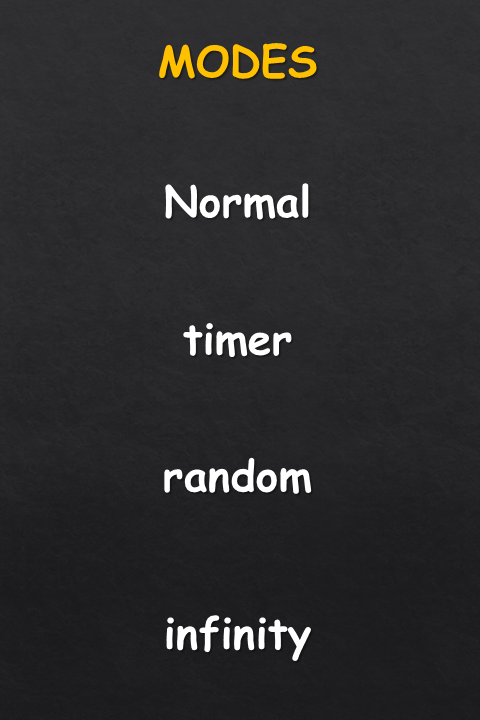
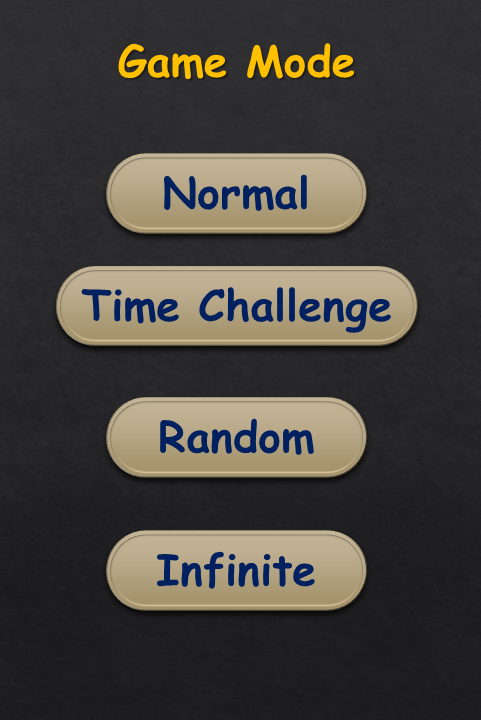
some GUI

diff --git a/core/front-end.h b/core/front-end.h
@@ -61,18 +61,13 @@ void Modes(SDL_Renderer* renderer){
         e ->type = 0 ;
         modes = false;
     }
-    if((mouse_x>160)&&(mouse_x<315)&&(mouse_y>180)&&(mouse_y<223) && (e->button.button == SDL_BUTTON_LEFT && e->type == SDL_MOUSEBUTTONDOWN)){
+    if((mouse_x>100)&&(mouse_x<370)&&(mouse_y>150)&&(mouse_y<240) && (e->button.button == SDL_BUTTON_LEFT && e->type == SDL_MOUSEBUTTONDOWN)){
+        e ->type = 0 ;
         PlayMusic(btn_sd,25,0,btn_sd_c);
         levels=true;
         modes=false;
     }
-    if((mouse_x>160)&&(mouse_x<315)&&(mouse_y>460)&&(mouse_y<500) && (e->button.button == SDL_BUTTON_LEFT && e->type == SDL_MOUSEBUTTONDOWN)){
-        PlayMusic(btn_sd,25,0,btn_sd_c);
-        modes=false;
-        generateRandomGame(10);
-        show_level_random=true;
-    }
-    if((mouse_x>160)&&(mouse_x<300)&&(mouse_y>320)&&(mouse_y<365) && (e->button.button == SDL_BUTTON_LEFT && e->type == SDL_MOUSEBUTTONDOWN)){
+    if((mouse_x>50)&&(mouse_x<420)&&(mouse_y>268)&&(mouse_y<350) && (e->button.button == SDL_BUTTON_LEFT && e->type == SDL_MOUSEBUTTONDOWN)){
         PlayMusic(btn_sd,25,0,btn_sd_c);
         modes=false;
         generateRandomGame(10);
@@ -80,6 +75,12 @@ void Modes(SDL_Renderer* renderer){
         timer_level=true;
         is_timer_on=true;
         start_time = time();
+    }
+    if((mouse_x>100)&&(mouse_x<370)&&(mouse_y>400)&&(mouse_y<480) && (e->button.button == SDL_BUTTON_LEFT && e->type == SDL_MOUSEBUTTONDOWN)){
+        PlayMusic(btn_sd,25,0,btn_sd_c);
+        modes=false;
+        generateRandomGame(10);
+        show_level_random=true;
     }
 }
 
@@ -97,7 +98,8 @@ void Levels(SDL_Renderer* renderer){
         e ->type = 0 ;
         levels = false;
     }
-    if((mouse_x>24)&&(mouse_x<205)&&(mouse_y>252)&&(mouse_y<297) && (e->button.button == SDL_BUTTON_LEFT && e->type == SDL_MOUSEBUTTONDOWN)){
+    if((mouse_x>110)&&(mouse_x<380)&&(mouse_y>130)&&(mouse_y<220) && (e->button.button == SDL_BUTTON_LEFT && e->type == SDL_MOUSEBUTTONDOWN)){
+        e ->type = 0 ;
         PlayMusic(btn_sd,25,0,btn_sd_c);
         data = {};
         loadLevel(1);
@@ -107,7 +109,7 @@ void Levels(SDL_Renderer* renderer){
         SDL_RenderClear(renderer);
         show_level_1=true;
     }
-    if((mouse_x>265)&&(mouse_x<460)&&(mouse_y>252)&&(mouse_y<297) && (e->button.button == SDL_BUTTON_LEFT && e->type == SDL_MOUSEBUTTONDOWN)){
+    if((mouse_x>110)&&(mouse_x<380)&&(mouse_y>250)&&(mouse_y<335) && (e->button.button == SDL_BUTTON_LEFT && e->type == SDL_MOUSEBUTTONDOWN)){
         PlayMusic(btn_sd,25,0,btn_sd_c);
         data = {};
         loadLevel(2);
@@ -117,7 +119,7 @@ void Levels(SDL_Renderer* renderer){
         SDL_RenderClear(renderer);
         show_level_2=true;
     }
-    if((mouse_x>25)&&(mouse_x<200)&&(mouse_y>390)&&(mouse_y<435) && (e->button.button == SDL_BUTTON_LEFT && e->type == SDL_MOUSEBUTTONDOWN)){
+    if((mouse_x>110)&&(mouse_x<380)&&(mouse_y>360)&&(mouse_y<450) && (e->button.button == SDL_BUTTON_LEFT && e->type == SDL_MOUSEBUTTONDOWN)){
         PlayMusic(btn_sd,25,0,btn_sd_c);
         data = {};
         loadLevel(3);
@@ -127,7 +129,7 @@ void Levels(SDL_Renderer* renderer){
         SDL_RenderClear(renderer);
         show_level_3=true;
     }
-    if((mouse_x>265)&&(mouse_x<465)&&(mouse_y>390)&&(mouse_y<435) && (e->button.button == SDL_BUTTON_LEFT && e->type == SDL_MOUSEBUTTONDOWN)){
+    if((mouse_x>110)&&(mouse_x<380)&&(mouse_y>485)&&(mouse_y<570) && (e->button.button == SDL_BUTTON_LEFT && e->type == SDL_MOUSEBUTTONDOWN)){
         PlayMusic(btn_sd,25,0,btn_sd_c);
         data = {};
         loadLevel(4);
@@ -137,7 +139,7 @@ void Levels(SDL_Renderer* renderer){
         SDL_RenderClear(renderer);
         show_level_4=true;
     }
-    if((mouse_x>180)&&(mouse_x<290)&&(mouse_y>520)&&(mouse_y<580) && (e->button.button == SDL_BUTTON_LEFT && e->type == SDL_MOUSEBUTTONDOWN)){
+    if((mouse_x>110)&&(mouse_x<380)&&(mouse_y>610)&&(mouse_y<700) && (e->button.button == SDL_BUTTON_LEFT && e->type == SDL_MOUSEBUTTONDOWN)){
         PlayMusic(btn_sd,25,0,btn_sd_c);
         data = {};
         loadLevel(5);
@@ -163,74 +165,74 @@ void Setting(SDL_Renderer* renderer){
         e ->type = 0 ;
         setting = false;
     }
-    if((mouse_x>214)&&(mouse_x<264)&&(mouse_y>157)&&(mouse_y<222) && (e->button.button == SDL_BUTTON_LEFT && e->type == SDL_MOUSEBUTTONDOWN)){
+    if((mouse_x>224)&&(mouse_x<274)&&(mouse_y>157)&&(mouse_y<222) && (e->button.button == SDL_BUTTON_LEFT && e->type == SDL_MOUSEBUTTONDOWN)){
         e ->type = 0 ;
         PlayMusic(btn_sd,25,0,btn_sd_c);
         music_play=false;
         Mix_VolumeMusic(0);
     }
-    if((mouse_x>311)&&(mouse_x<393)&&(mouse_y>155)&&(mouse_y<224) && (e->button.button == SDL_BUTTON_LEFT && e->type == SDL_MOUSEBUTTONDOWN)){
+    if((mouse_x>311+10)&&(mouse_x<393+10)&&(mouse_y>155)&&(mouse_y<224) && (e->button.button == SDL_BUTTON_LEFT && e->type == SDL_MOUSEBUTTONDOWN)){
         e ->type = 0 ;
         PlayMusic(btn_sd,25,0,btn_sd_c);
         music_play=true;
         Mix_VolumeMusic(25);
     }
-    if((mouse_x>211)&&(mouse_x<262)&&(mouse_y>352)&&(mouse_y<419) && (e->button.button == SDL_BUTTON_LEFT && e->type == SDL_MOUSEBUTTONDOWN)){
+    if((mouse_x>211+10)&&(mouse_x<262+10)&&(mouse_y>352)&&(mouse_y<419) && (e->button.button == SDL_BUTTON_LEFT && e->type == SDL_MOUSEBUTTONDOWN)){
         e ->type = 0 ;
         PlayMusic(btn_sd,25,0,btn_sd_c);
         sound_play=false;
     }
-    if((mouse_x>323)&&(mouse_x<395)&&(mouse_y>352)&&(mouse_y<419) && (e->button.button == SDL_BUTTON_LEFT && e->type == SDL_MOUSEBUTTONDOWN)){
+    if((mouse_x>323+10)&&(mouse_x<395+10)&&(mouse_y>352)&&(mouse_y<419) && (e->button.button == SDL_BUTTON_LEFT && e->type == SDL_MOUSEBUTTONDOWN)){
         e ->type = 0 ;
         PlayMusic(btn_sd,25,0,btn_sd_c);
         sound_play=true;
     }
-    if((mouse_x>48)&&(mouse_x<90)&&(mouse_y>260)&&(mouse_y<305) && (e->button.button == SDL_BUTTON_LEFT && e->type == SDL_MOUSEBUTTONDOWN)){
+    if((mouse_x>48+10)&&(mouse_x<90+10)&&(mouse_y>260)&&(mouse_y<305) && (e->button.button == SDL_BUTTON_LEFT && e->type == SDL_MOUSEBUTTONDOWN)){
         e ->type = 0 ;
         PlayMusic(btn_sd,25,0,btn_sd_c);
         vol=1/4;
     }
-    if((mouse_x>125)&&(mouse_x<170)&&(mouse_y>260)&&(mouse_y<305) && (e->button.button == SDL_BUTTON_LEFT && e->type == SDL_MOUSEBUTTONDOWN)){
+    if((mouse_x>125+10)&&(mouse_x<170+10)&&(mouse_y>260)&&(mouse_y<305) && (e->button.button == SDL_BUTTON_LEFT && e->type == SDL_MOUSEBUTTONDOWN)){
         e ->type = 0 ;
         PlayMusic(btn_sd,25,0,btn_sd_c);
         vol=1/2;
     }
-    if((mouse_x>205)&&(mouse_x<245)&&(mouse_y>260)&&(mouse_y<305) && (e->button.button == SDL_BUTTON_LEFT && e->type == SDL_MOUSEBUTTONDOWN)){
+    if((mouse_x>205+10)&&(mouse_x<245+10)&&(mouse_y>260)&&(mouse_y<305) && (e->button.button == SDL_BUTTON_LEFT && e->type == SDL_MOUSEBUTTONDOWN)){
         e ->type = 0 ;
         PlayMusic(btn_sd,25,0,btn_sd_c);
         vol=1;
     }
-    if((mouse_x>280)&&(mouse_x<320)&&(mouse_y>260)&&(mouse_y<305) && (e->button.button == SDL_BUTTON_LEFT && e->type == SDL_MOUSEBUTTONDOWN)){
+    if((mouse_x>280+10)&&(mouse_x<320+10)&&(mouse_y>260)&&(mouse_y<305) && (e->button.button == SDL_BUTTON_LEFT && e->type == SDL_MOUSEBUTTONDOWN)){
         e ->type = 0 ;
         PlayMusic(btn_sd,25,0,btn_sd_c);
         vol=2;
     }
-    if((mouse_x>355)&&(mouse_x<395)&&(mouse_y>260)&&(mouse_y<305) && (e->button.button == SDL_BUTTON_LEFT && e->type == SDL_MOUSEBUTTONDOWN)){
+    if((mouse_x>355+10)&&(mouse_x<395+10)&&(mouse_y>260)&&(mouse_y<305) && (e->button.button == SDL_BUTTON_LEFT && e->type == SDL_MOUSEBUTTONDOWN)){
         e ->type = 0 ;
         PlayMusic(btn_sd,25,0,btn_sd_c);
         vol=3;
     }
-    if((mouse_x>48)&&(mouse_x<90)&&(mouse_y>450)&&(mouse_y<490) && (e->button.button == SDL_BUTTON_LEFT && e->type == SDL_MOUSEBUTTONDOWN)){
+    if((mouse_x>48+10)&&(mouse_x<90+10)&&(mouse_y>450)&&(mouse_y<490) && (e->button.button == SDL_BUTTON_LEFT && e->type == SDL_MOUSEBUTTONDOWN)){
         e ->type = 0 ;
         PlayMusic(btn_sd,25,0,btn_sd_c);
         vol=1/4;
     }
-    if((mouse_x>125)&&(mouse_x<170)&&(mouse_y>450)&&(mouse_y<490) && (e->button.button == SDL_BUTTON_LEFT && e->type == SDL_MOUSEBUTTONDOWN)){
+    if((mouse_x>125+10)&&(mouse_x<170+10)&&(mouse_y>450)&&(mouse_y<490) && (e->button.button == SDL_BUTTON_LEFT && e->type == SDL_MOUSEBUTTONDOWN)){
         e ->type = 0 ;
         PlayMusic(btn_sd,25,0,btn_sd_c);
         vol=1/2;
     }
-    if((mouse_x>205)&&(mouse_x<245)&&(mouse_y>450)&&(mouse_y<490) && (e->button.button == SDL_BUTTON_LEFT && e->type == SDL_MOUSEBUTTONDOWN)){
+    if((mouse_x>205+10)&&(mouse_x<245+10)&&(mouse_y>450)&&(mouse_y<490) && (e->button.button == SDL_BUTTON_LEFT && e->type == SDL_MOUSEBUTTONDOWN)){
         e ->type = 0 ;
         PlayMusic(btn_sd,25,0,btn_sd_c);
         vol=1;
     }
-    if((mouse_x>280)&&(mouse_x<320)&&(mouse_y>450)&&(mouse_y<490) && (e->button.button == SDL_BUTTON_LEFT && e->type == SDL_MOUSEBUTTONDOWN)){
+    if((mouse_x>280+10)&&(mouse_x<320+10)&&(mouse_y>450)&&(mouse_y<490) && (e->button.button == SDL_BUTTON_LEFT && e->type == SDL_MOUSEBUTTONDOWN)){
         e ->type = 0 ;
         PlayMusic(btn_sd,25,0,btn_sd_c);
         vol=2;
     }
-    if((mouse_x>355)&&(mouse_x<395)&&(mouse_y>450)&&(mouse_y<490) && (e->button.button == SDL_BUTTON_LEFT && e->type == SDL_MOUSEBUTTONDOWN)){
+    if((mouse_x>355+10)&&(mouse_x<395+10)&&(mouse_y>450)&&(mouse_y<490) && (e->button.button == SDL_BUTTON_LEFT && e->type == SDL_MOUSEBUTTONDOWN)){
         e ->type = 0 ;
         PlayMusic(btn_sd,25,0,btn_sd_c);
         vol=3;
@@ -253,9 +255,12 @@ void PlayMusic(Mix_Chunk* music,int volume,int repeat,bool can_play){
 void ShowBalls(SDL_Renderer* renderer){
     for (int i = 0; i < data.size(); i++) {
         for (int j = 0; j < data[i].size(); ++j) {
-            if (data[i][j].color)
+            if (data[i][j].color){
                 DrawABall(renderer,data[i][j].x,data[i][j].y + added_y,data[i][j].color);
+                DrawWithoutPresent(renderer,beak_img,beak_rect,data[i][j].x-12,data[i][j].y-2 + added_y,24,24);
+            }
         }
+
     }
 
 }
@@ -409,6 +414,7 @@ void ShowLevel(SDL_Renderer* renderer,int level_id){
         shooted_ball = {0, 0, 0,  WIDTH/2, BASE_Y+80};
     }
     DrawShootLine(renderer,mouse_x,mouse_y);
+    DrawWithoutPresent(renderer,devil_img,devil_rect,WIDTH/2-24,BASE_Y+80-24 ,48,48);
     ShowCannon(renderer,mouse_x,mouse_y);
     stringRGBA(renderer,20,720-30, name.c_str(),255,255,255,255);
     if(timer_level){
@@ -416,7 +422,7 @@ void ShowLevel(SDL_Renderer* renderer,int level_id){
         stringRGBA(renderer,480-155,720-30, tim.c_str(),255,255,255,255);
         if(tim == "time = 00:00") timer_level=false;
     }
-
+    DrawWithoutPresent(renderer,devil_img,devil_rect,150,BASE_Y+100-24 ,36,36);
     if(isGameOver()){
         PlayMusic(game_over_sd,25,0,sound_play);
         data.clear();

diff --git a/main.cpp b/main.cpp
@@ -24,9 +24,8 @@ int main(int argc, char* argv[]) {
     SDL_Window* window = SDL_CreateWindow("Bouncing Ball",SDL_WINDOWPOS_UNDEFINED, SDL_WINDOWPOS_UNDEFINED, WIDTH, HEIGHT, 0);
     SDL_Renderer* renderer = SDL_CreateRenderer(window, -1, 0);
     //load images
-    menu_img = IMG_LoadTexture(renderer, "../images/menu-back.png");
+    menu_img = IMG_LoadTexture(renderer, "../images/menu.png");
     modes_img = IMG_LoadTexture(renderer, "../images/modes.png");
-    menu_img = IMG_LoadTexture(renderer, "../images/menu-back.png");
     levels_img = IMG_LoadTexture(renderer, "../images/levels.png");
     setting_img = IMG_LoadTexture(renderer, "../images/setting.png");
     l_desert_img = IMG_LoadTexture(renderer, "../images/level-desert.png");
@@ -47,6 +46,9 @@ int main(int argc, char* argv[]) {
     win_img = IMG_LoadTexture(renderer, "../images/win.png");
     win_img = IMG_LoadTexture(renderer, "../images/win.png");
     login_img = IMG_LoadTexture(renderer, "../images/login.png");
+    devil_img = IMG_LoadTexture(renderer, "../images/devil.png");
+    beak_img = IMG_LoadTexture(renderer, "../images/beak.png");
+
 
     //load sounds
     //menu1_sd = Mix_LoadWAV("../sounds/menu1.wav");
@@ -55,6 +57,8 @@ int main(int argc, char* argv[]) {
     menu1_sd = Mix_LoadMUS("../sounds/menu1.mp3");
     game_over_sd = Mix_LoadWAV("../sounds/game-over.wav");
     win_sd = Mix_LoadWAV("../sounds/win.wav");
+    story = Mix_LoadWAV("../sounds/story.wav");
+
 
 
     TTF_Init();
@@ -74,6 +78,7 @@ int main(int argc, char* argv[]) {
     SDL_Texture* inputTexture = NULL;
     SDL_Event e2;
 
+    PlayMusic(story,100,0,1);
     while (login) {
 
         DrawWithoutPresent(renderer,login_img,login_rect,0,0,WIDTH,HEIGHT);
@@ -148,18 +153,18 @@ int main(int argc, char* argv[]) {
             shoot_sd_c= true;
         }
 
-        if((menu_show) && (mouse_x>12)&&(mouse_x<85)&&(mouse_y>12)&&(mouse_y<85) && (e->button.button == SDL_BUTTON_LEFT && e->type == SDL_MOUSEBUTTONDOWN)){
+        if((menu_show) && (mouse_x>364)&&(mouse_x<438)&&(mouse_y>620)&&(mouse_y<692) && (e->button.button == SDL_BUTTON_LEFT && e->type == SDL_MOUSEBUTTONDOWN)){
             e->type = 0;
             run=false;
             break;
         }
-        if((menu_show) && (mouse_x>294)&&(mouse_x<470)&&(mouse_y>36)&&(mouse_y<88) && (e->button.button == SDL_BUTTON_LEFT && e->type == SDL_MOUSEBUTTONDOWN)){
+        if((menu_show) && (mouse_x>48)&&(mouse_x<423)&&(mouse_y>130)&&(mouse_y<230) && (e->button.button == SDL_BUTTON_LEFT && e->type == SDL_MOUSEBUTTONDOWN)){
             e->type = 0;
             modes=true;
             PlayMusic(btn_sd,25,0,btn_sd_c);
             Modes(renderer);
         }
-        if((menu_show) && (mouse_x>292)&&(mouse_x<470)&&(mouse_y>145)&&(mouse_y<188) && (e->button.button == SDL_BUTTON_LEFT && e->type == SDL_MOUSEBUTTONDOWN)){
+        if((menu_show) && (mouse_x>185)&&(mouse_x<420)&&(mouse_y>250)&&(mouse_y<330) && (e->button.button == SDL_BUTTON_LEFT && e->type == SDL_MOUSEBUTTONDOWN)){
             e->type = 0;
             setting=true;
             PlayMusic(btn_sd,25,0,btn_sd_c);

diff --git a/core/config.h b/core/config.h
@@ -136,6 +136,10 @@ SDL_Texture* win_img = NULL;
 SDL_Rect win_rect;
 SDL_Texture* login_img = NULL;
 SDL_Rect login_rect;
+SDL_Texture* devil_img = NULL;
+SDL_Rect devil_rect;
+SDL_Texture* beak_img = NULL;
+SDL_Rect beak_rect;
 
 
 
@@ -157,6 +161,7 @@ Mix_Chunk* l_desert_sd;
 Mix_Chunk* l_timer_sd;
 Mix_Chunk* game_over_sd;
 Mix_Chunk* win_sd;
+Mix_Chunk* story;
 Mix_Music *test = NULL;
 Mix_Music *menu1_sd = NULL;
 
